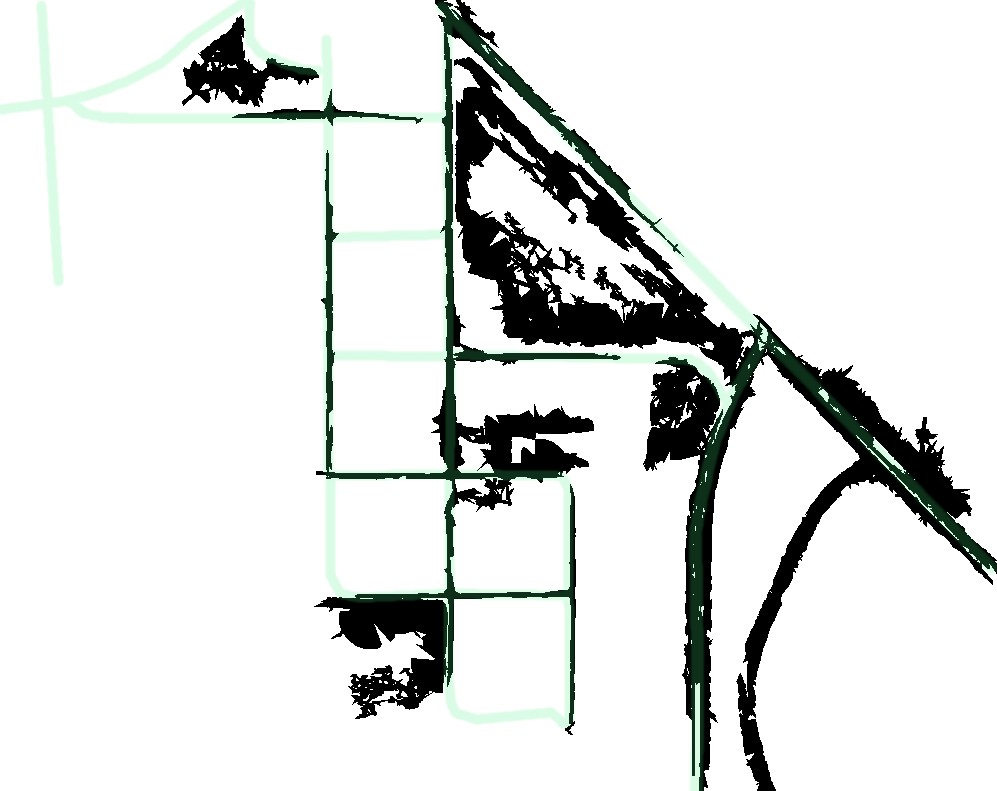
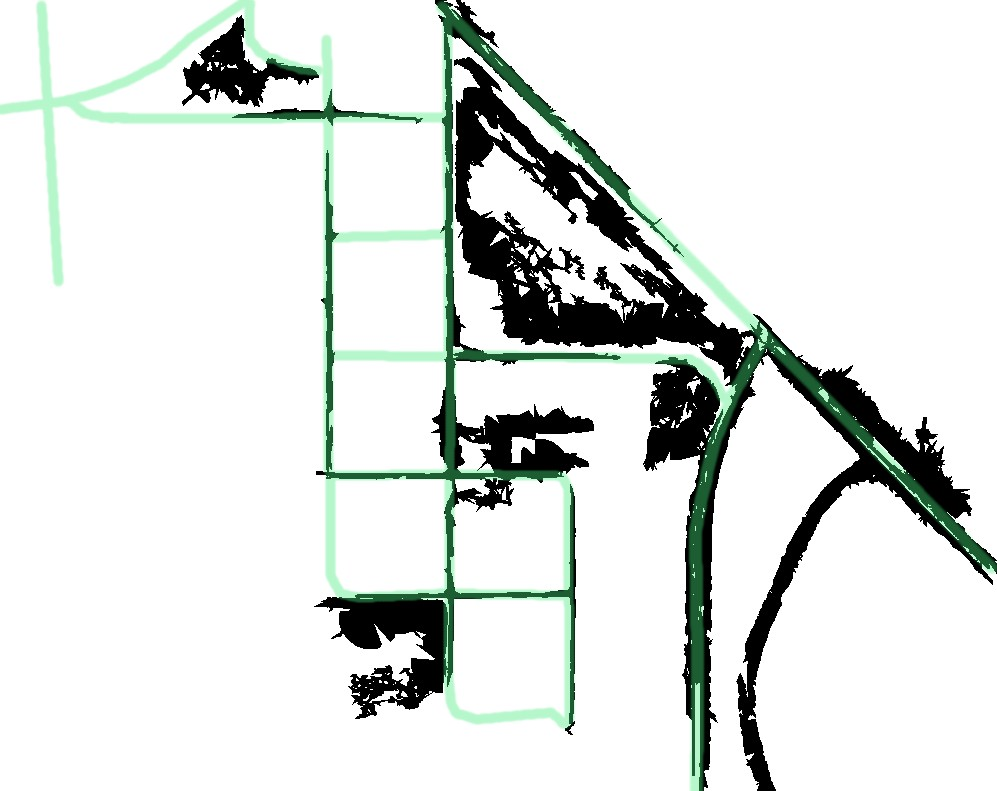
texas and promenade

diff --git a/src/main/java/uk/ac/soton/ecs/fjkb1u17/App.java b/src/main/java/uk/ac/soton/ecs/fjkb1u17/App.java
@@ -27,7 +27,7 @@ public class App {
         try {
             image = ImageUtilities.readMBF(new File("valbonne.png"));
             //image = ImageUtilities.readMBF(new File("img3.png"));
-            image = ImageUtilities.readMBF(new File("texas.png"));
+            image = ImageUtilities.readMBF(new File("promenadeDesAnglais.png"));
             FImage filtered = new FImage(image.getWidth(), image.getHeight());
             FImage redBand = image.getBand(0);
             FImage greenBand = image.getBand(1);
